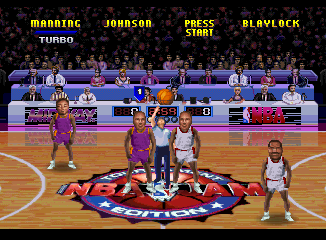
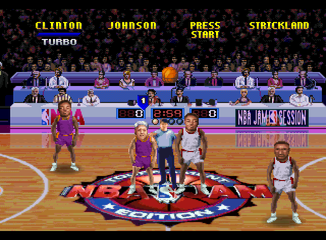
Version 1.5.8: match-up screenshots for PlayStation, Saturn, Jaguar, 32X and arcade TE

diff --git a/tools/nbajam_codes.html b/tools/nbajam_codes.html
@@ -184,7 +184,7 @@ footer a { color: var(--orange); text-decoration: none; display: inline-flex; al
       <a href="https://github.com/maxxthunder/nbajam/tree/main/docs">research notes</a>.</p>
   </details>
 
-  <footer><a href="https://github.com/maxxthunder/nbajam"><svg viewBox="0 0 16 16" width="18" height="18" fill="currentColor" aria-hidden="true"><path d="M8 0c4.42 0 8 3.58 8 8a8.013 8.013 0 0 1-5.45 7.59c-.4.08-.55-.17-.55-.38 0-.27.01-1.13.01-2.2 0-.75-.25-1.23-.54-1.48 1.78-.2 3.65-.88 3.65-3.95 0-.88-.31-1.59-.82-2.15.08-.2.36-1.02-.08-2.12 0 0-.67-.22-2.2.82-.64-.18-1.32-.27-2-.27-.68 0-1.36.09-2 .27-1.53-1.03-2.2-.82-2.2-.82-.44 1.1-.16 1.92-.08 2.12-.51.56-.82 1.28-.82 2.15 0 3.06 1.86 3.75 3.64 3.95-.23.2-.44.55-.51 1.07-.46.21-1.61.55-2.33-.66-.15-.24-.6-.83-1.23-.82-.67.01-.27.38.01.53.34.19.73.9.82 1.13.16.45.68 1.31 2.69.94 0 .67.01 1.3.01 1.49 0 .21-.15.45-.55.38A7.995 7.995 0 0 1 0 8c0-4.42 3.58-8 8-8Z"/></svg>maxxthunder/nbajam</a><a href="https://github.com/maxxthunder/nbajam/blob/main/CHANGELOG.md">v1.5.7</a></footer>
+  <footer><a href="https://github.com/maxxthunder/nbajam"><svg viewBox="0 0 16 16" width="18" height="18" fill="currentColor" aria-hidden="true"><path d="M8 0c4.42 0 8 3.58 8 8a8.013 8.013 0 0 1-5.45 7.59c-.4.08-.55-.17-.55-.38 0-.27.01-1.13.01-2.2 0-.75-.25-1.23-.54-1.48 1.78-.2 3.65-.88 3.65-3.95 0-.88-.31-1.59-.82-2.15.08-.2.36-1.02-.08-2.12 0 0-.67-.22-2.2.82-.64-.18-1.32-.27-2-.27-.68 0-1.36.09-2 .27-1.53-1.03-2.2-.82-2.2-.82-.44 1.1-.16 1.92-.08 2.12-.51.56-.82 1.28-.82 2.15 0 3.06 1.86 3.75 3.64 3.95-.23.2-.44.55-.51 1.07-.46.21-1.61.55-2.33-.66-.15-.24-.6-.83-1.23-.82-.67.01-.27.38.01.53.34.19.73.9.82 1.13.16.45.68 1.31 2.69.94 0 .67.01 1.3.01 1.49 0 .21-.15.45-.55.38A7.995 7.995 0 0 1 0 8c0-4.42 3.58-8 8-8Z"/></svg>maxxthunder/nbajam</a><a href="https://github.com/maxxthunder/nbajam/blob/main/CHANGELOG.md">v1.5.8</a></footer>
 </main>
 <script>
 // Card: [title, where, input, new?, note]. Input: "ini:MJT|Mar 22" = initials (and birthday);
@@ -301,6 +301,8 @@ const MU_SNES_NOTE = { 'Power-up three pointers': 'One published list leaves off
   'Rainbow arc shots': 'One published list leaves off the first Up; that version does nothing.' };
 const UNUSED_NOTE = "The game recognizes it and sets its flag, but never applies it: probably a power-up that was cut. It has no effect.";
 const teMu = notes => TE_MU.map(([n, k]) => [n, MU, k, n === 'Unused code', n === 'Unused code' ? UNUSED_NOTE : notes[n] || '']);
+// screenshots at tip-off, each taken with a secret character; codes that print nothing and change nothing visible have none
+const MU_PIC = {'te32x': {'Display shot percentage': 'shots/te32xmu_display_shot_percentage', 'Baby mode': 'shots/te32xmu_baby_mode', 'Quick hands': 'shots/te32xmu_quick_hands', 'Power-up goaltending': 'shots/te32xmu_power_up_goaltending', 'Power-up push': 'shots/te32xmu_power_up_push'}, 'teps': {'Display shot percentage': 'shots/tepsmu_display_shot_percentage', 'Quick hands': 'shots/tepsmu_quick_hands', 'Maximum power': 'shots/tepsmu_maximum_power', 'Power-up goaltending': 'shots/tepsmu_power_up_goaltending', 'Power-up on fire': 'shots/tepsmu_power_up_on_fire', 'Power-up turbo': 'shots/tepsmu_power_up_turbo', 'Power-up offense': 'shots/tepsmu_power_up_offense', 'Power-up three pointers': 'shots/tepsmu_power_up_three_pointers', 'Power-up dunks': 'shots/tepsmu_power_up_dunks', 'Power-up push': 'shots/tepsmu_power_up_push', 'Baby mode': 'shots/tepsmu_baby_mode', 'Big heads': 'shots/tepsmu_big_heads', 'Mammoth heads': 'shots/tepsmu_mammoth_heads', 'Huge players': 'shots/tepsmu_huge_players'}, 'tesat': {'Display shot percentage': 'shots/tesatmu_display_shot_percentage', 'Quick hands': 'shots/tesatmu_quick_hands', 'Maximum power': 'shots/tesatmu_maximum_power', 'Power-up goaltending': 'shots/tesatmu_power_up_goaltending', 'Power-up on fire': 'shots/tesatmu_power_up_on_fire', 'Power-up turbo': 'shots/tesatmu_power_up_turbo', 'Power-up offense': 'shots/tesatmu_power_up_offense', 'Power-up three pointers': 'shots/tesatmu_power_up_three_pointers', 'Power-up dunks': 'shots/tesatmu_power_up_dunks', 'Power-up push': 'shots/tesatmu_power_up_push', 'Baby mode': 'shots/tesatmu_baby_mode', 'Big heads': 'shots/tesatmu_big_heads', 'Mammoth heads': 'shots/tesatmu_mammoth_heads', 'Huge players': 'shots/tesatmu_huge_players'}, 'tejag': {'CD-ROM mode': 'shots/tejagmu_cd_rom_mode', 'Baby mode': 'shots/tejagmu_baby_mode', 'Display shot percentage': 'shots/tejagmu_display_shot_percentage', 'Quick hands': 'shots/tejagmu_quick_hands', 'Power-up goaltending': 'shots/tejagmu_power_up_goaltending', 'Power-up on fire': 'shots/tejagmu_power_up_on_fire', 'Power-up turbo': 'shots/tejagmu_power_up_turbo', 'Power-up offense': 'shots/tejagmu_power_up_offense', 'Power-up three pointers': 'shots/tejagmu_power_up_three_pointers', 'Power-up dunks': 'shots/tejagmu_power_up_dunks', 'Power-up push': 'shots/tejagmu_power_up_push', 'Big heads': 'shots/tejagmu_big_heads', 'Small heads': 'shots/tejagmu_small_heads', 'Small ball': 'shots/tejagmu_small_ball', 'Small players': 'shots/tejagmu_small_players', 'All players on fire': 'shots/tejagmu_all_players_on_fire', 'Doom mode': 'shots/tejagmu_doom_mode', 'Maximum power': 'shots/tejagmu_maximum_power'}};
 // TE 32X: its own table ($8BD67C), same effects in the same order plus baby mode
 const TE32X_MU = [['Baby mode', 'B, A, B, Up, Down, Left, Right', false], ['Display shot percentage', 'Down, Up, Down, B, Up', false],
   ['Quick hands', 'Left, Right, A, B, Right, Left', true], ['Maximum power', 'Right, Up, Left, Right, B, Down, A', true],
@@ -312,7 +314,7 @@ const TE32X_MU = [['Baby mode', 'B, A, B, Up, Down, Left, Right', false], ['Disp
   ['Push one opponent, teammate falls', 'Down, Left, Right, Up, Left, Left, Left, Left, A, B', true],
   ['Super speed', 'Up, Up, Down, Down, Left, Right, Left, Left, B, A', true], ['Teleport pass', 'Down, Right, Right, A, A, Down, Left, Left, Right, B', false],
   ['Slippery court', 'B, A, Down, A, B, Right, Right, Right, Right, Right', false], ['Unused code', 'Down, Up, Down, Up, Down, Up, Left, Left, B, B', true, UNUSED_NOTE],
-  ['Rainbow arc shots', 'Up, Left, Left, Down, Right, Up, A, B, A, A, Down', true]].map(([n, k, isNew, note]) => [n, MU, k, isNew, note || '']);
+  ['Rainbow arc shots', 'Up, Left, Left, Down, Right, Up, A, B, A, A, Down', true]].map(([n, k, isNew, note]) => [n, MU, k, isNew, note || '', MU_PIC.te32x[n] || '']);
 // TE PlayStation / Saturn: the same 19 effects in the same order (PS OVERLAY.BIN 0x2AD88, Saturn 0 0x578A4)
 const PS_MU = [
   ["Display shot percentage", "Up, Up, Down, Down, Triangle", "Up, Up, Down, Down, A"],
@@ -331,11 +333,14 @@ const PS_MU = [
   ["Rainbow arc shots", "Up, Down, Up, Down, Right, Up, Circle, Circle, Circle, Circle, Down", "Up, Down, Up, Down, Right, Up, Y, Y, Y, Y, Down"],
   ["Super speed", "Up, Up, Up, Up, Left, Left, Left, Left, X, Triangle", "Up, Up, Up, Up, Left, Left, Left, Left, C, A"],
   ["Baby mode", "Circle, Square, Circle, Square, Circle, Square", "Y, B, Y, B, Y, B"],
-  ["Huge heads", "Triangle, X, Triangle, X, Triangle, X, Triangle, X, Triangle, X, Triangle, X, Triangle, X", "A, C, A, C, A, C, A, C, A, C, A, C, A, C"],
+  ["Huge players", "Triangle, X, Triangle, X, Triangle, X, Triangle, X, Triangle, X, Triangle, X, Triangle, X", "A, C, A, C, A, C, A, C, A, C, A, C, A, C"],
   ["Big heads", "Triangle, Square, X, Circle, Triangle, Square, X, Circle", "A, B, C, Y, A, B, C, Y"],
   ["Mammoth heads", "Circle, X, Square, Triangle, Circle, X, Square, Triangle, Circle, X, Square, Triangle, Circle, X, Square, Triangle", "Y, C, B, A, Y, C, B, A, Y, C, B, A, Y, C, B, A"]];
-const GLOBAL_MU = ['Display shot percentage', 'Baby mode', 'Huge heads', 'Big heads', 'Mammoth heads'];
-const psMu = col => PS_MU.map(r => [r[0], MU, r[col], false, GLOBAL_MU.includes(r[0]) ? 'For everyone.' : '']);
+const GLOBAL_MU = ['Display shot percentage', 'Baby mode', 'Huge players', 'Big heads', 'Mammoth heads'];
+const MU_NOTE_PS = { 'Huge players': 'Shows "HUGE MODE!": every player is drawn bigger, not just the heads.',
+  'Power-up push': '', 'Push one opponent, both fall': 'No message at tip-off.', 'Push one opponent, teammate falls': 'No message at tip-off.',
+  'Teleport pass': 'No message at tip-off.', 'Rainbow arc shots': 'No message at tip-off.', 'Super speed': 'No message at tip-off.' };
+const psMu = (col, plat) => PS_MU.map(r => [r[0], MU, r[col], false, [GLOBAL_MU.includes(r[0]) ? 'For everyone.' : '', MU_NOTE_PS[r[0]] || ''].filter(Boolean).join(' '), MU_PIC[plat][r[0]] || '']);
 // TE Jaguar: its own 24 sequences, pointer table $81C36C; sequence n sets bit n of the player's mask ($6922 + 4 x player)
 const JAG_MU = [
   ["CD-ROM mode", "C, Down, C, Down, C, Down, C, Down, C, Down"],
@@ -670,7 +675,7 @@ const GROUPS = {
   tesat: [
     ['Secret characters', 'Answer Yes to keep a record, then enter the initials and birthday, holding L + R as you pick each letter; without them the game shows NO RECORD. The game shows "SECRET PLAYER" before team select.',
       TE_SAT.map(c => tesat(c, ''))],
-    ['Match-up codes', "At Tonight's Match-Up, on any player's pad. The game checks each player's presses when the screen ends. The same 19 as the PlayStation, with Saturn buttons.", psMu(2)],
+    ['Match-up codes', "At Tonight's Match-Up, on any player's pad. The game checks each player's presses when the screen ends. The same 19 as the PlayStation, with Saturn buttons.", psMu(2, 'tesat')],
     ['Preset records', 'Answer Yes to keep a record and enter these with no buttons held. A new save already holds them.', [
       ['Champion record', 'Keep-record screen', 'FIN, January 1', false,
         'Opens a 27-9 record, rank 1st: "You have defeated all 27 NBA teams!"'],
@@ -689,7 +694,7 @@ const GROUPS = {
       ['Gerald Wilkins', 'No record', 'none', false, 'Injured for the 1994-95 season, then taken by Vancouver.', 'playstation/unused_wilkins'],
       ['Monty Williams', 'No record', 'none', false, 'The Knicks have five players without him.', 'playstation/unused_williams'],
       ['James Worthy', 'No record', 'none', false, 'Retired in November 1994.', 'playstation/unused_worthy']]],
-    ['Match-up codes', "At Tonight's Match-Up, on any player's pad. The game checks each player's presses when the screen ends.", psMu(1).map(c => c[0] === 'Mammoth heads' ? [...c.slice(0, 4), 'Four rounds are enough; Cheat Code Central gives five.'] : c)],
+    ['Match-up codes', "At Tonight's Match-Up, on any player's pad. The game checks each player's presses when the screen ends.", psMu(1, 'teps').map(c => c[0] === 'Mammoth heads' ? [...c.slice(0, 4), 'Four rounds are enough; Cheat Code Central gives five.', c[5]] : c)],
     ['Preset records', 'Answer Yes to keep a record and enter these with no buttons held. A new save already holds them.', [
       ['Champion record', 'Keep-record screen', 'FIN, January 1', false,
         'Opens a 27-9 record, rank 1st: "You have defeated all 27 NBA teams!"'],
@@ -732,7 +737,7 @@ const GROUPS = {
   tejag: [
     ['Secret characters', 'At the initials screen, on each letter marked Option, hold Option and press the button. Enter the other letters as usual, with A, B or C.',
       TE_JAG.map(c => tejag(c, false, JAG_NOTE[c[1]]))],
-    ['Match-up codes', "At Tonight's Match-Up, on any player's pad; start as soon as the screen comes up: it's short. The Jaguar has its own 24 sequences.", JAG_MU.map(([n, k]) => [n, MU, k, false, JAG_MU_NOTE[n] || ''])],
+    ['Match-up codes', "At Tonight's Match-Up, on any player's pad; start as soon as the screen comes up: it's short. The Jaguar has its own 24 sequences.", JAG_MU.map(([n, k]) => [n, MU, k, false, JAG_MU_NOTE[n] || '', MU_PIC.tejag[n] || ''])],
     ['Hidden codes', '', [
       ['Clear cartridge memory', 'Any time', 'Hold * + # to reset, and keep holding them with Option', true,
         'The game restarts on "CARTRIDGE MEMORY CLEARED" with the saved options back at their defaults.', 'shots/jag_memory_cleared'],
@@ -765,14 +770,14 @@ const GROUPS = {
       ['Sub-Zero', 'SUB', 'Dec 5'], ['Raiden', 'RAD', 'Jul 9'], ['Grim Reaper', 'GRM', 'Oct 31'], ['Tim Coman', 'TJC', 'Oct 11'],
       ['Kongo', 'KNG', 'Jan 16'], ['Elviscious', 'ELV', 'Jan 8'], ['Scorpion', 'SCO', 'Jul 6'], ['Reptile', 'RPT', 'Nov 11']].map(c => te(c, false))],
     ["Tonight's Match-Up codes", "Enter these while the Tonight's Match-Up screen is up. The game counts each player's presses of any button; codes with a count need exactly that many. The message shows at tip-off. Tournament Mode turns all of them off.", [
-      ['Powerup goaltending', MU, 'Press any button 24 times', false, 'Exactly 24. Shows "POWERUP G.T."'],
+      ['Powerup goaltending', MU, 'Press any button 24 times', false, 'Exactly 24. Shows "POWERUP G.T."', 'shots/temu_gt'],
       ['Shot percentage display', MU, 'Press any button 15 or more times while turning the stick Up → Right → Down → Left', false,
         "GameFAQs says press all three buttons together 7 times, which doesn't work.", 'shots/temu_shot'],
-      ['Maximum power', MU, 'Hold Down + Turbo + Shoot + Pass', false, "Start isn't needed."],
+      ['Maximum power', MU, 'Hold Down + Turbo + Shoot + Pass', false, "Start isn't needed. Shows \"MAX POWER\".", 'shots/temu_maxpower'],
       ['Tournament mode', MU, 'Hold Right + Turbo + Shoot + Pass', false, 'Turns off power-ups, computer assistance and hidden features, including secret characters.', 'shots/temu_tournament'],
       ['Big heads', MU, 'Hold Up + Turbo + Pass until tip-off', false, '', 'shots/temu_bighead'],
       ['Huge heads', MU, 'Press any button 5 times; then hold Up + Turbo + Pass until tip-off', false, 'Big heads with exactly 6 presses in all.', 'shots/temu_huge'],
-      ['Quick hands', MU, 'Press any button 4 times; then hold Down + Shoot until tip-off', false, '5 or more presses in all.'],
+      ['Quick hands', MU, 'Press any button 4 times; then hold Down + Shoot until tip-off', false, '5 or more presses in all. Shows "QUICK HANDS".', 'shots/temu_quick'],
       ['Baby-size players', MU + ', holding Down-Right', 'Pass, Turbo, Shoot, Pass, Turbo, Shoot, Pass, Turbo, Shoot', false, 'Shows "BABY SIZE PLAYERS". Published lists give Turbo, Shoot, Pass; the game wants Pass first.', 'shots/temu_baby'],
       ['All computer assistance off', MU, 'Press any button exactly 10 times', true,
         'Needs a human player on each team. Shows "ALL COMPUTER ASSISTANCE TURNED OFF!" Not on any published TE list; the original game had a similar Turbo ×10 code.', 'shots/te_assist_off']]],

diff --git a/tools/nbajam_password_checker.html b/tools/nbajam_password_checker.html
@@ -107,7 +107,7 @@ footer a { color: var(--orange); text-decoration: none; display: inline-flex; al
     <p>A password only works with the initials it was made for, because the initials are part of its key. If it's rejected,
       the game says <b>No record</b> and starts you from scratch.</p>
   </section>
-  <footer><a href="https://github.com/maxxthunder/nbajam"><svg viewBox="0 0 16 16" width="18" height="18" fill="currentColor" aria-hidden="true"><path d="M8 0c4.42 0 8 3.58 8 8a8.013 8.013 0 0 1-5.45 7.59c-.4.08-.55-.17-.55-.38 0-.27.01-1.13.01-2.2 0-.75-.25-1.23-.54-1.48 1.78-.2 3.65-.88 3.65-3.95 0-.88-.31-1.59-.82-2.15.08-.2.36-1.02-.08-2.12 0 0-.67-.22-2.2.82-.64-.18-1.32-.27-2-.27-.68 0-1.36.09-2 .27-1.53-1.03-2.2-.82-2.2-.82-.44 1.1-.16 1.92-.08 2.12-.51.56-.82 1.28-.82 2.15 0 3.06 1.86 3.75 3.64 3.95-.23.2-.44.55-.51 1.07-.46.21-1.61.55-2.33-.66-.15-.24-.6-.83-1.23-.82-.67.01-.27.38.01.53.34.19.73.9.82 1.13.16.45.68 1.31 2.69.94 0 .67.01 1.3.01 1.49 0 .21-.15.45-.55.38A7.995 7.995 0 0 1 0 8c0-4.42 3.58-8 8-8Z"/></svg>maxxthunder/nbajam</a><a href="codes.html">Secret codes</a><a href="https://github.com/maxxthunder/nbajam/blob/main/CHANGELOG.md">v1.5.7</a></footer>
+  <footer><a href="https://github.com/maxxthunder/nbajam"><svg viewBox="0 0 16 16" width="18" height="18" fill="currentColor" aria-hidden="true"><path d="M8 0c4.42 0 8 3.58 8 8a8.013 8.013 0 0 1-5.45 7.59c-.4.08-.55-.17-.55-.38 0-.27.01-1.13.01-2.2 0-.75-.25-1.23-.54-1.48 1.78-.2 3.65-.88 3.65-3.95 0-.88-.31-1.59-.82-2.15.08-.2.36-1.02-.08-2.12 0 0-.67-.22-2.2.82-.64-.18-1.32-.27-2-.27-.68 0-1.36.09-2 .27-1.53-1.03-2.2-.82-2.2-.82-.44 1.1-.16 1.92-.08 2.12-.51.56-.82 1.28-.82 2.15 0 3.06 1.86 3.75 3.64 3.95-.23.2-.44.55-.51 1.07-.46.21-1.61.55-2.33-.66-.15-.24-.6-.83-1.23-.82-.67.01-.27.38.01.53.34.19.73.9.82 1.13.16.45.68 1.31 2.69.94 0 .67.01 1.3.01 1.49 0 .21-.15.45-.55.38A7.995 7.995 0 0 1 0 8c0-4.42 3.58-8 8-8Z"/></svg>maxxthunder/nbajam</a><a href="codes.html">Secret codes</a><a href="https://github.com/maxxthunder/nbajam/blob/main/CHANGELOG.md">v1.5.8</a></footer>
 </main>
 <script>
 const ALPHABET = "BCDFGHJKLMNPQRSTVWXYZ12345";

diff --git a/docs/te_consoles.md b/docs/te_consoles.md
@@ -108,6 +108,16 @@ starts (Genesis `$266762`, 32X `$12D82`; SNES packs them into a mask at `$07EE`,
   from the PlayStation's (turbo and push) were published by 32bits. Sega Retro's Saturn page has 17 of the 19, all
   matching (its baby mode and head codes are longer than needed, which still works); it lacks Y, Y, Y, B, Down, Down, Up, Left and
   Down, Right, C, Y, C, Right, Down.
+- **What tip-off shows** (codes-page screenshots, each with a random secret character, BizHawk). PlayStation and
+  Saturn: player 1's power-up name at the bottom left ("QUICK HANDS", "MAXPOWER", "POWERUP FIRE"...) while the player
+  flashes white, and the global codes' message at the top ("SHOT PERCENT DISPLAY!", "BABY MODE!", "HUGE MODE!", "BIG
+  HEAD MODE ON!", "MAMMOTH HEAD MODE ON!"). Both push codes, teleport pass, rainbow arc shots and super speed print
+  nothing. The flash alternates every few frames while the caption stays up, so the screenshots are frames where the
+  player is drawn normally. The code listed as huge heads makes every player bigger, not just the heads: its message
+  is "HUGE MODE!". The 32X prints nothing at tip-off. Its global codes print a line once play starts ("SHOT %
+  DISPLAY ACTIVATED", "BABY MODE!"), and a power-up's name ("QUICK HANDS", "PWRUP G.T.", "PWRUP PUSH") replaces the
+  player's name only when it comes into play, so a random-input game catches some and not others. All 17 32X codes
+  were confirmed set in player 1's struct.
 
 ## Jaguar
 
@@ -152,6 +162,14 @@ Both checked in BizHawk.
   <img src="images/jag_cdrom_mode.png" alt="The fake CD-ROM loading screen" width="326">
   <img src="images/jag_doom_mode.png" alt="Doom mode: all four players with the same head" width="326">
 </p>
+
+**Screenshots.** BizHawk's Jaguar core (Virtual Jaguar) draws the scorer's-table ads as stripes, so the Jaguar
+match-up screenshots on the codes page come from BigPEmu. Its scripting (C compiled to a `.bigpcvm` module) can set
+the pad each frame and save and load states. The script entered each code with a random secret character and
+signalled a window capture at fixed frames. Tip-off prints "CHEATS ACTIVATED" and the code's name for 18 of the 24.
+The push, teleport, high shots, super speed and slippery court codes print nothing; CD-ROM mode, small heads, small
+ball, small players and Doom mode change the picture instead. The ad boards are the NBA and NBA Jam Session pair, as on
+the other consoles.
 
 ### Jaguar keypad
 

diff --git a/CHANGELOG.md b/CHANGELOG.md
@@ -2,6 +2,15 @@
 
 Changes to the [secret codes page](https://maxxthunder.github.io/nbajam/codes.html) and [password checker](https://maxxthunder.github.io/nbajam/). The version is shown at the bottom of each page. **Codes page** and **Checker** are what visitors see; **Notes** are the [research notes](docs/); **README** is this repo's front page.
 
+## 1.5.8 (2026-10-25)
+- **Codes page:** match-up screenshots for Tournament Edition on PlayStation (14), Saturn (14), Jaguar (18) and 32X (5),
+  each taken with a random secret character and showing the code's message or effect; the codes that print nothing
+  and change nothing visible have none.
+- **Codes page:** arcade Tournament Edition screenshots for powerup goaltending, maximum power and quick hands.
+- **Codes page:** the PlayStation and Saturn "huge heads" code is now "Huge players": it makes every player bigger.
+- **Notes:** what each version shows at tip-off; Jaguar shots taken in BigPEmu, whose ad boards draw correctly; a new
+  Doom mode picture.
+
 ## 1.5.7 (2026-10-25)
 - **Codes page:** the arcade NBA Jam powerup defense, shot percentage and computer-assistance-off screenshots now show
   their messages.

diff --git a/README.md b/README.md
@@ -1,6 +1,6 @@
 # NBA Jam and NBA Hangtime: Secret Codes and Password Checker
 
-**[Secret codes →](https://maxxthunder.github.io/nbajam/codes.html)** &nbsp; **[Password checker →](https://maxxthunder.github.io/nbajam/)** &nbsp;[![v1.5.7](https://img.shields.io/badge/version-1.5.7-e8742c)](CHANGELOG.md)
+**[Secret codes →](https://maxxthunder.github.io/nbajam/codes.html)** &nbsp; **[Password checker →](https://maxxthunder.github.io/nbajam/)** &nbsp;[![v1.5.8](https://img.shields.io/badge/version-1.5.8-e8742c)](CHANGELOG.md)
 
 <p align="center">
   <img src="tools/img/logo_nbajam.png" alt="NBA Jam" height="96">
